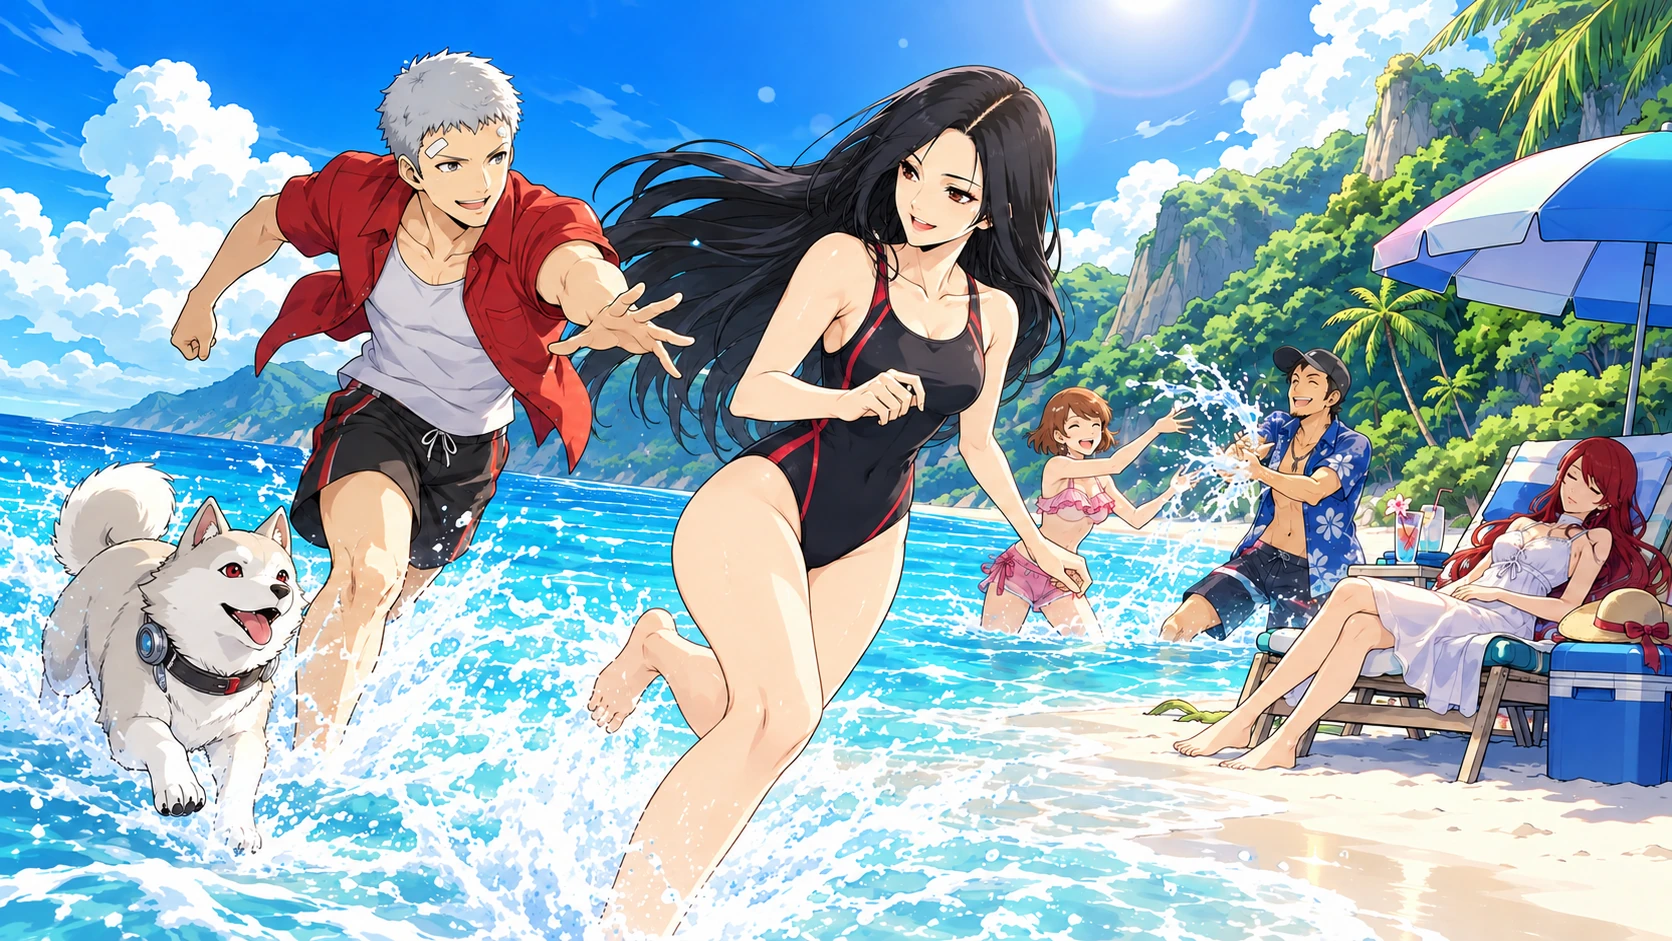
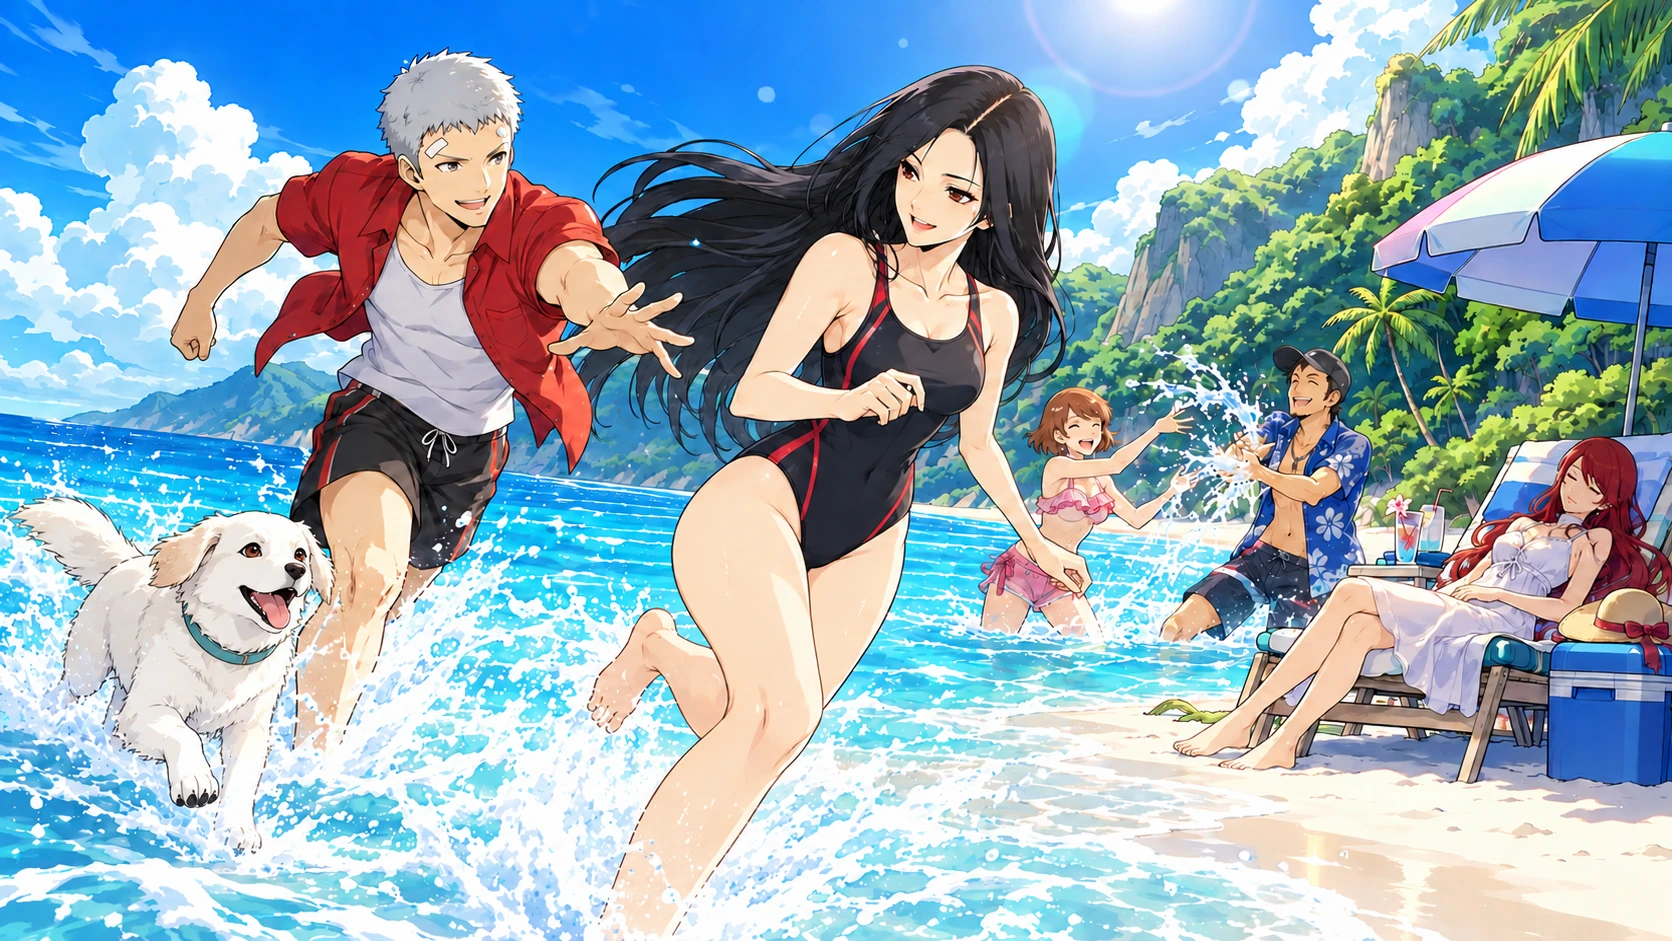
FEMC art batch 31: Kat's edited Yakushima CG and a line for its dog
The Yakushima beach CG is re-converted from Kat's edit, where the dog is now
a cream-coloured stray rather than Koromaru. a3-yakushima gains one line, on
the CG, about the stray that adopts the group. story-act3 v9; manifest
updated.

diff --git a/assets/femc/game/data/story-act3.js b/assets/femc/game/data/story-act3.js
@@ -228,6 +228,7 @@
     { music: 'sun' },
     { cg: 'trip-yakushima-beach' },
     { n: "Yakushima was green the way a held breath is green, all moss and cedar and wet stone, the forest coming right down to the sand like it wanted to see the sea for itself. The Kirijo villa had a beach, and the beach had a great deal of sun, and Junpei had a sunburn on exactly half of his face from falling asleep on his side, which he was calling a look." },
+    { n: "There was a dog, too. Nobody's, as far as anybody could tell, a big cream-colored thing with a blue collar and no tag who'd come out of the palms on the first afternoon, looked them over, and decided S.E.E.S. would do, and spent the rest of the trip racing Akihiko along the waterline and sleeping in the shade under Mitsuru's chair as if he'd been booked with the villa." },
     { cg: null },
     { n: "On the second evening, walking the far end of the sand on her own with her sandals in her hand, Solar found a girl standing in the water." },
     { n: "Not swimming. Standing, up to her shins, very straight, looking out at the horizon, with the low gold sun on her and the waves breaking around her legs and pulling back and not moving her at all. She was blonde, and very pale, and dressed in something that wasn't a swimsuit and wasn't clothes, and as Solar came closer she saw the seams at her shoulders, and the joints at her wrists, fine as watch-parts, and understood that whatever this was, it wasn't a girl in the way she was a girl." },

diff --git a/femc-game.html b/femc-game.html
@@ -46,7 +46,7 @@
   <script src="assets/femc/game/data/prologue.js?v=2"></script>
   <script src="assets/femc/game/data/story-act1.js?v=3"></script>
   <script src="assets/femc/game/data/story-act2.js?v=5"></script>
-  <script src="assets/femc/game/data/story-act3.js?v=8"></script>
+  <script src="assets/femc/game/data/story-act3.js?v=9"></script>
   <script src="assets/femc/game/data/story-act4.js?v=15"></script>
   <script src="assets/femc/game/data/story-act5.js?v=11"></script>
   <script src="assets/femc/game/data/story-act6.js?v=8"></script>
